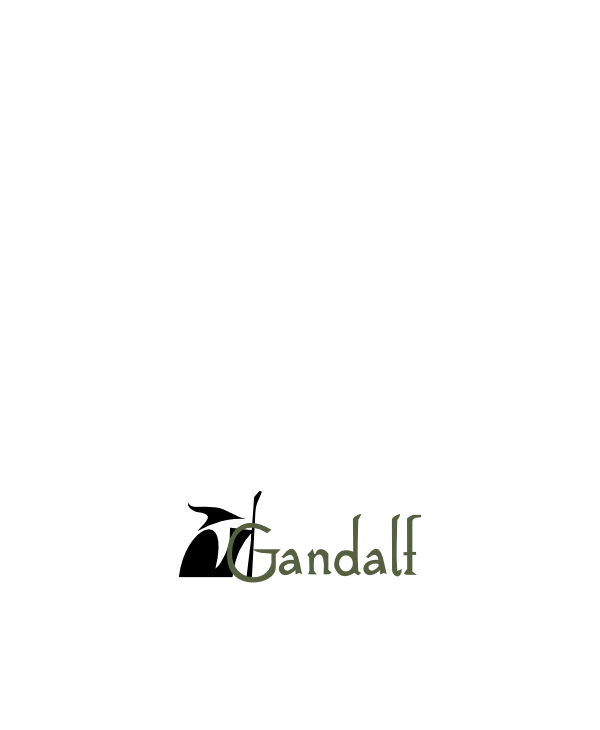
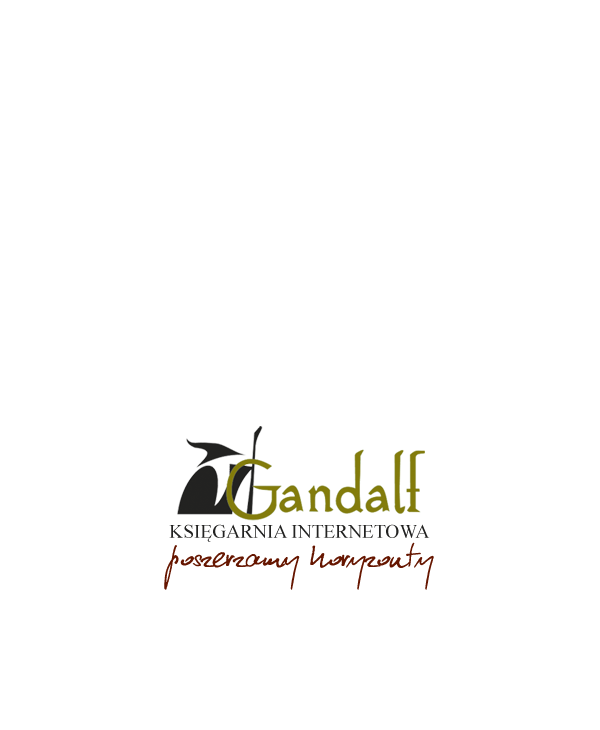
vendor cover change

Changed region(s): [[0.27, 0.5726, 0.72, 0.8137]]

diff --git a/librarian/packagers.py b/librarian/packagers.py
@@ -57,6 +57,9 @@ class PdfPackager(Packager):
 class GandalfEpubPackager(EpubPackager):
     cover = cover.GandalfCover
 
+class GandalfPdfPackager(PdfPackager):
+    cover = cover.GandalfCover
+
 class BookotekaEpubPackager(EpubPackager):
     cover = cover.BookotekaCover
 
